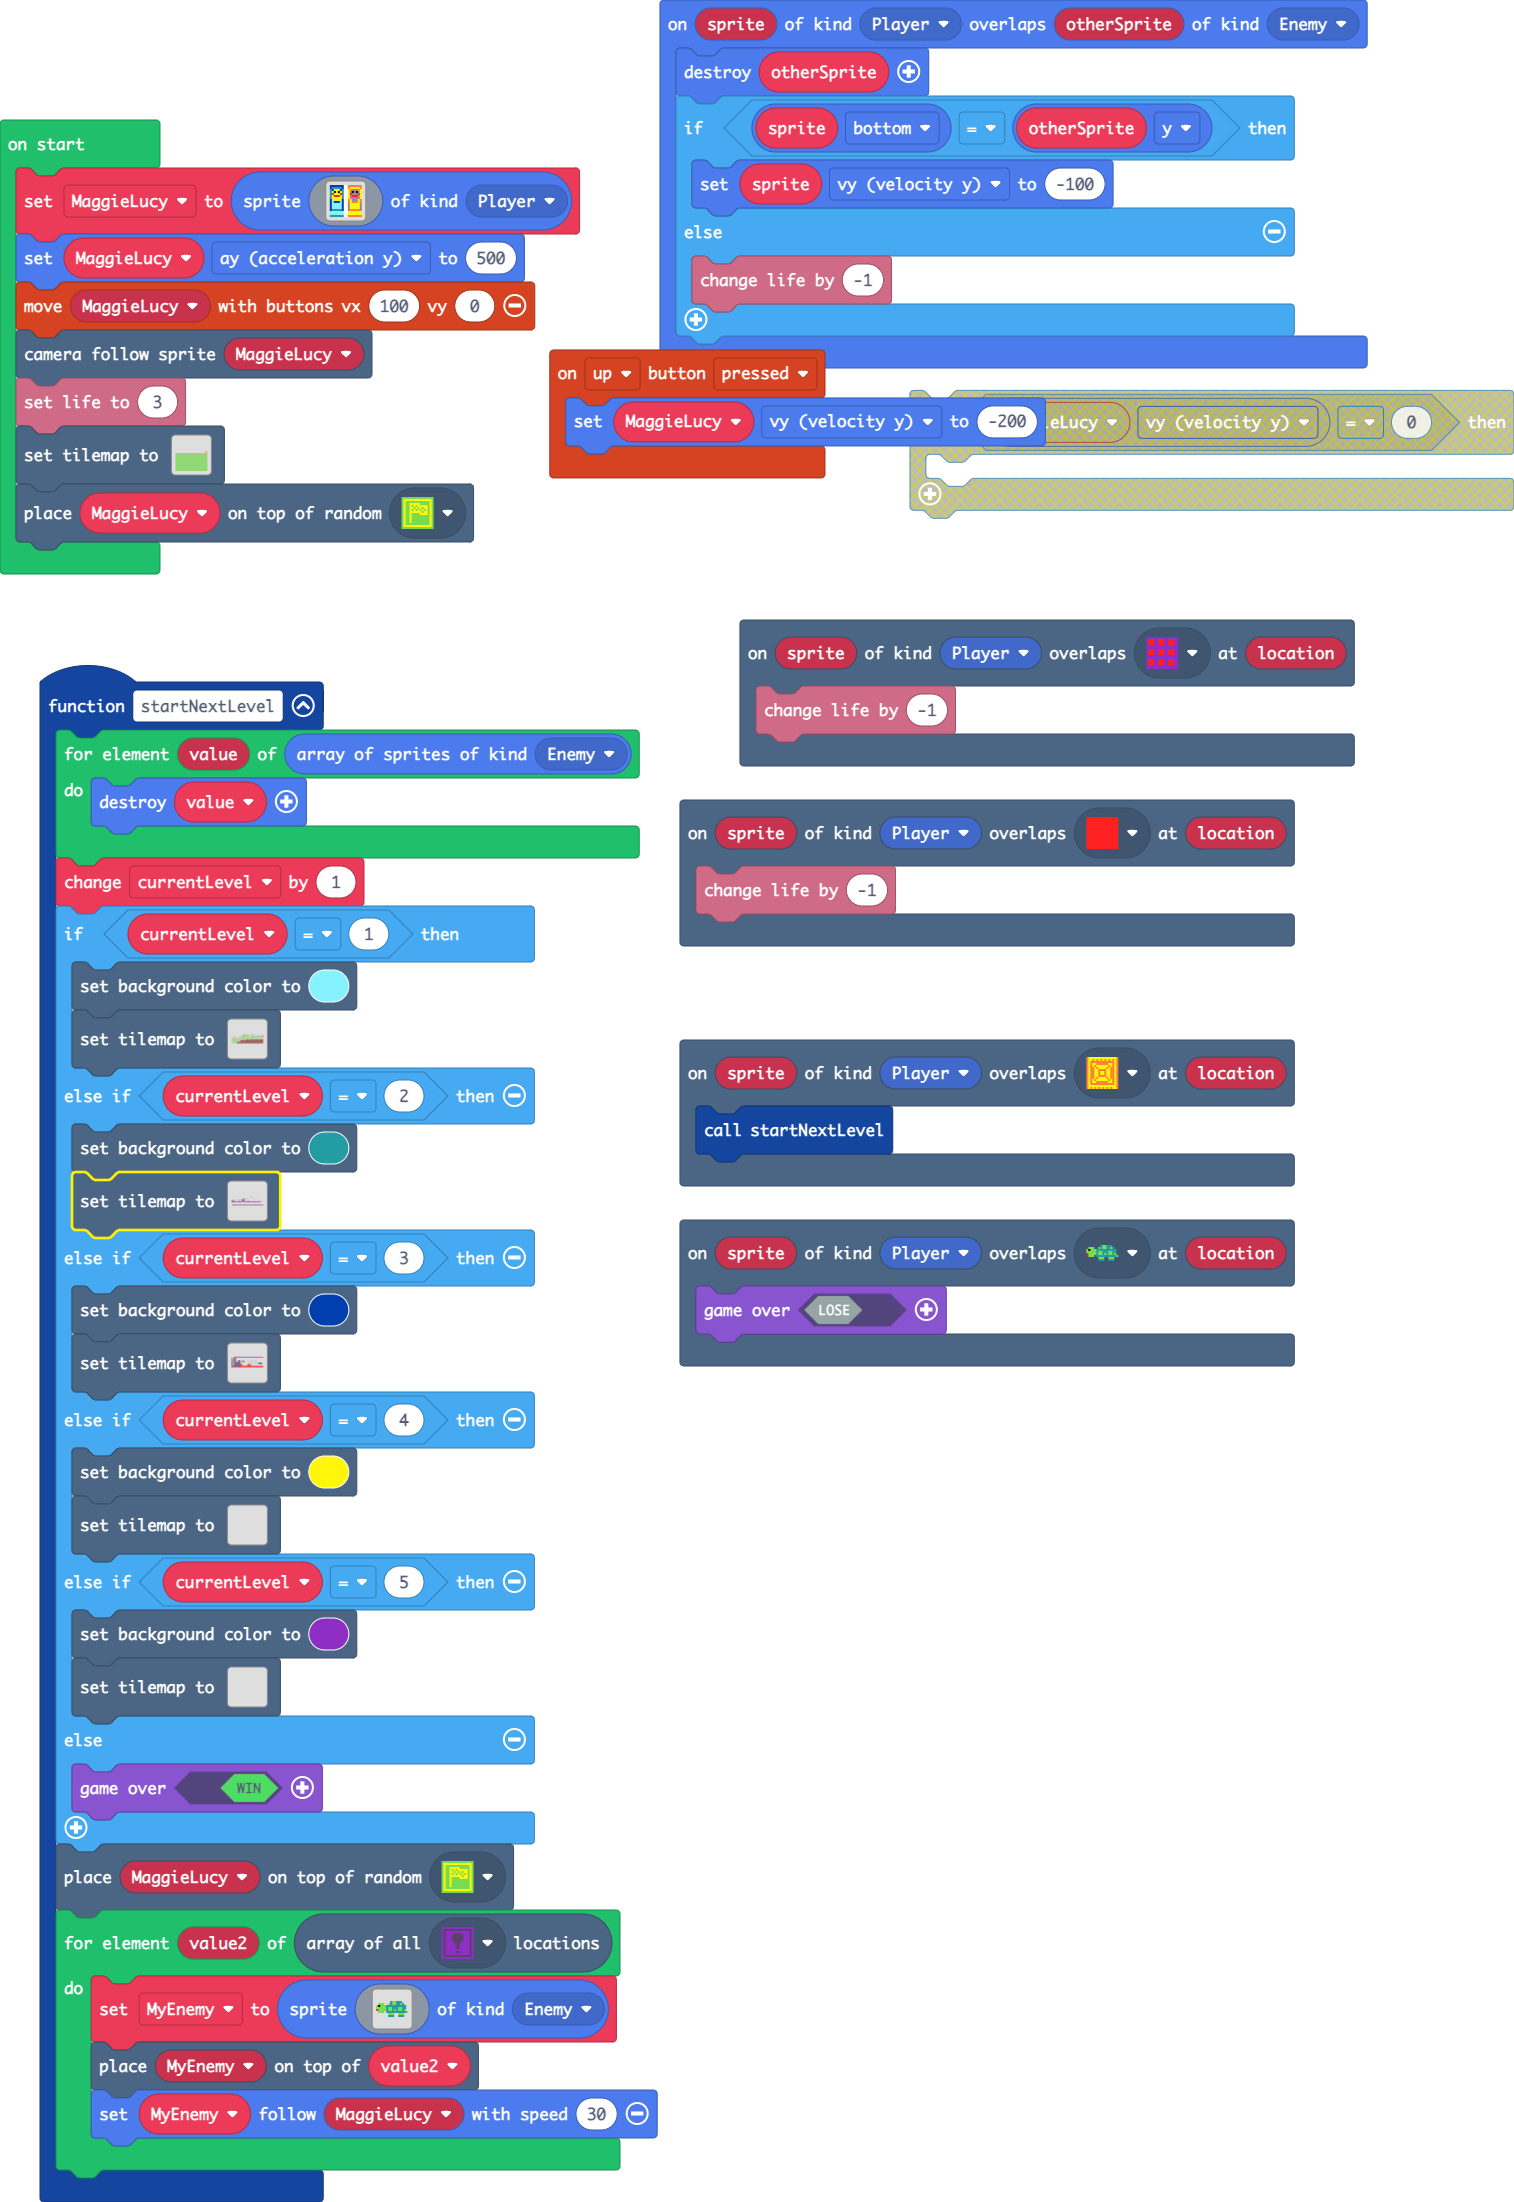
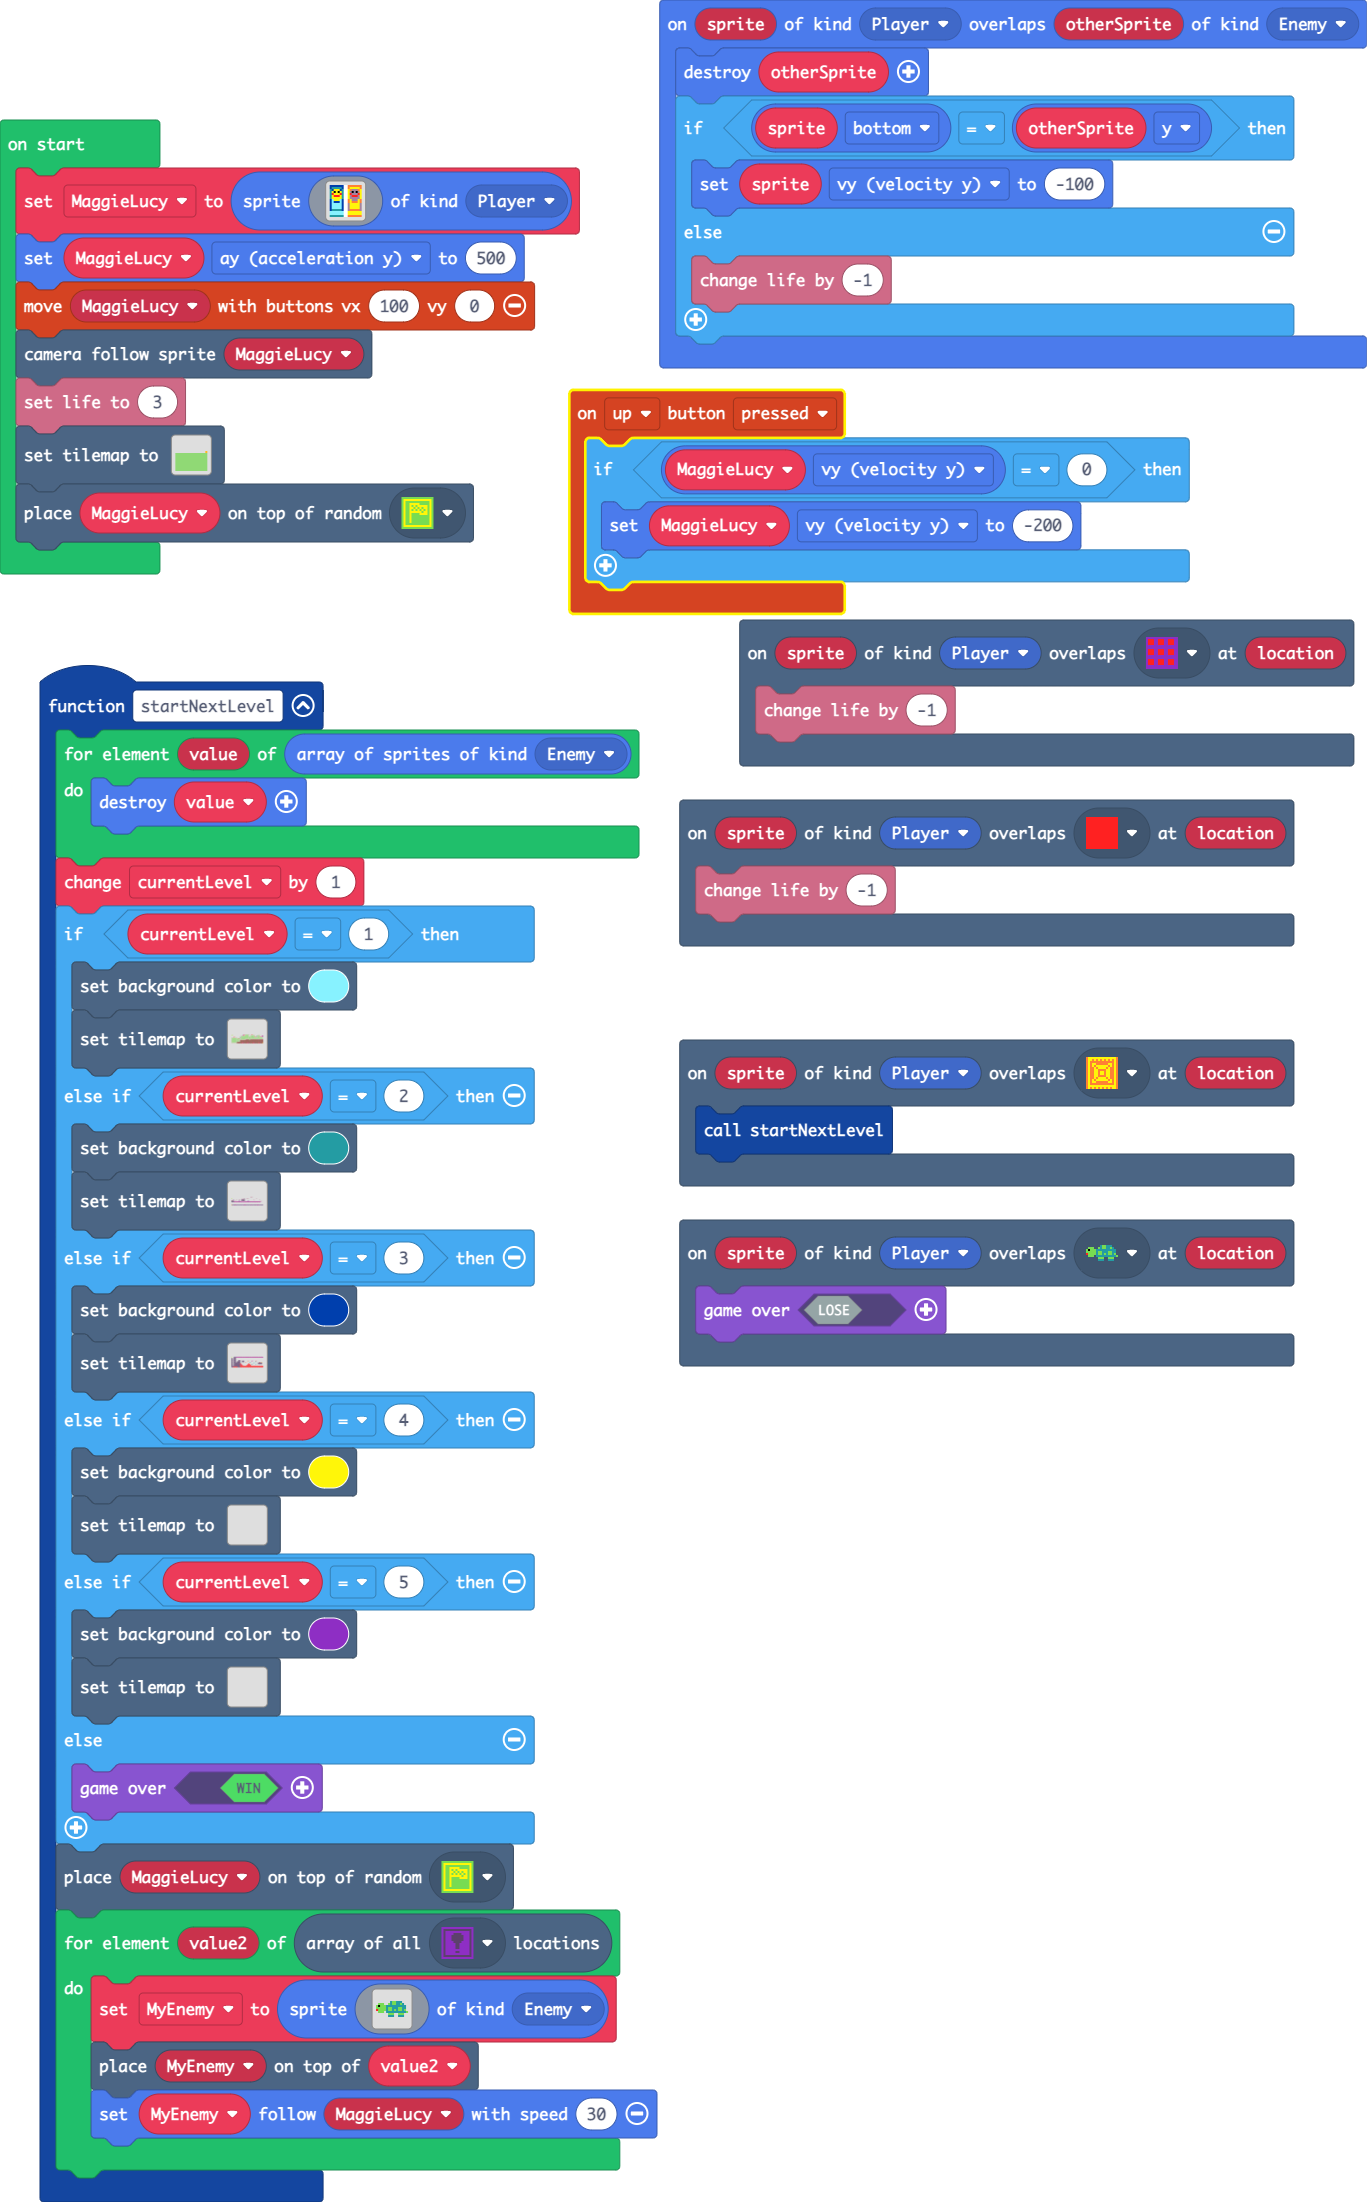
Update main.blocks, main.ts

Changed region(s): [[0.0, 0.0, 1.0, 0.4323], [0.0, 0.3088, 0.4916, 1.0], [0.4301, 0.4632, 0.9525, 0.6485]]

diff --git a/main.ts b/main.ts
@@ -5,7 +5,9 @@ scene.onOverlapTile(SpriteKind.Player, assets.tile`myTile1`, function (sprite, l
     info.changeLifeBy(-1)
 })
 controller.up.onEvent(ControllerButtonEvent.Pressed, function () {
-    MaggieLucy.vy = -200
+    if (MaggieLucy.vy == 0) {
+        MaggieLucy.vy = -200
+    }
 })
 scene.onOverlapTile(SpriteKind.Player, assets.tile`myTile`, function (sprite, location) {
     startNextLevel()
